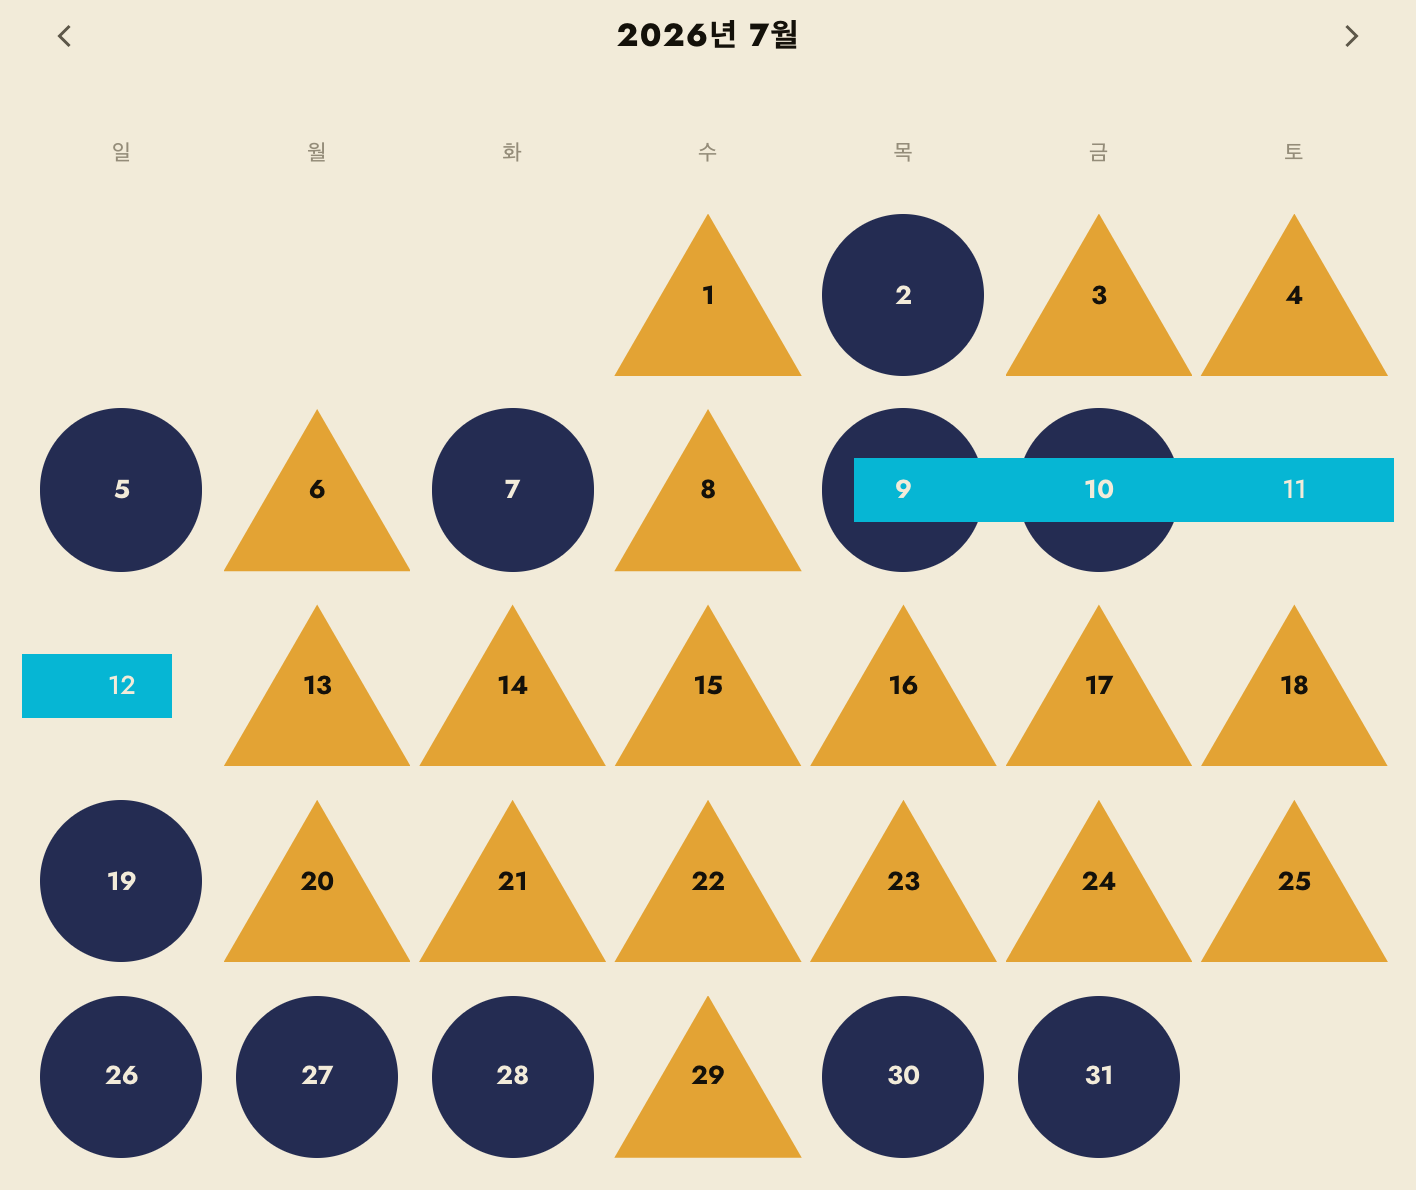
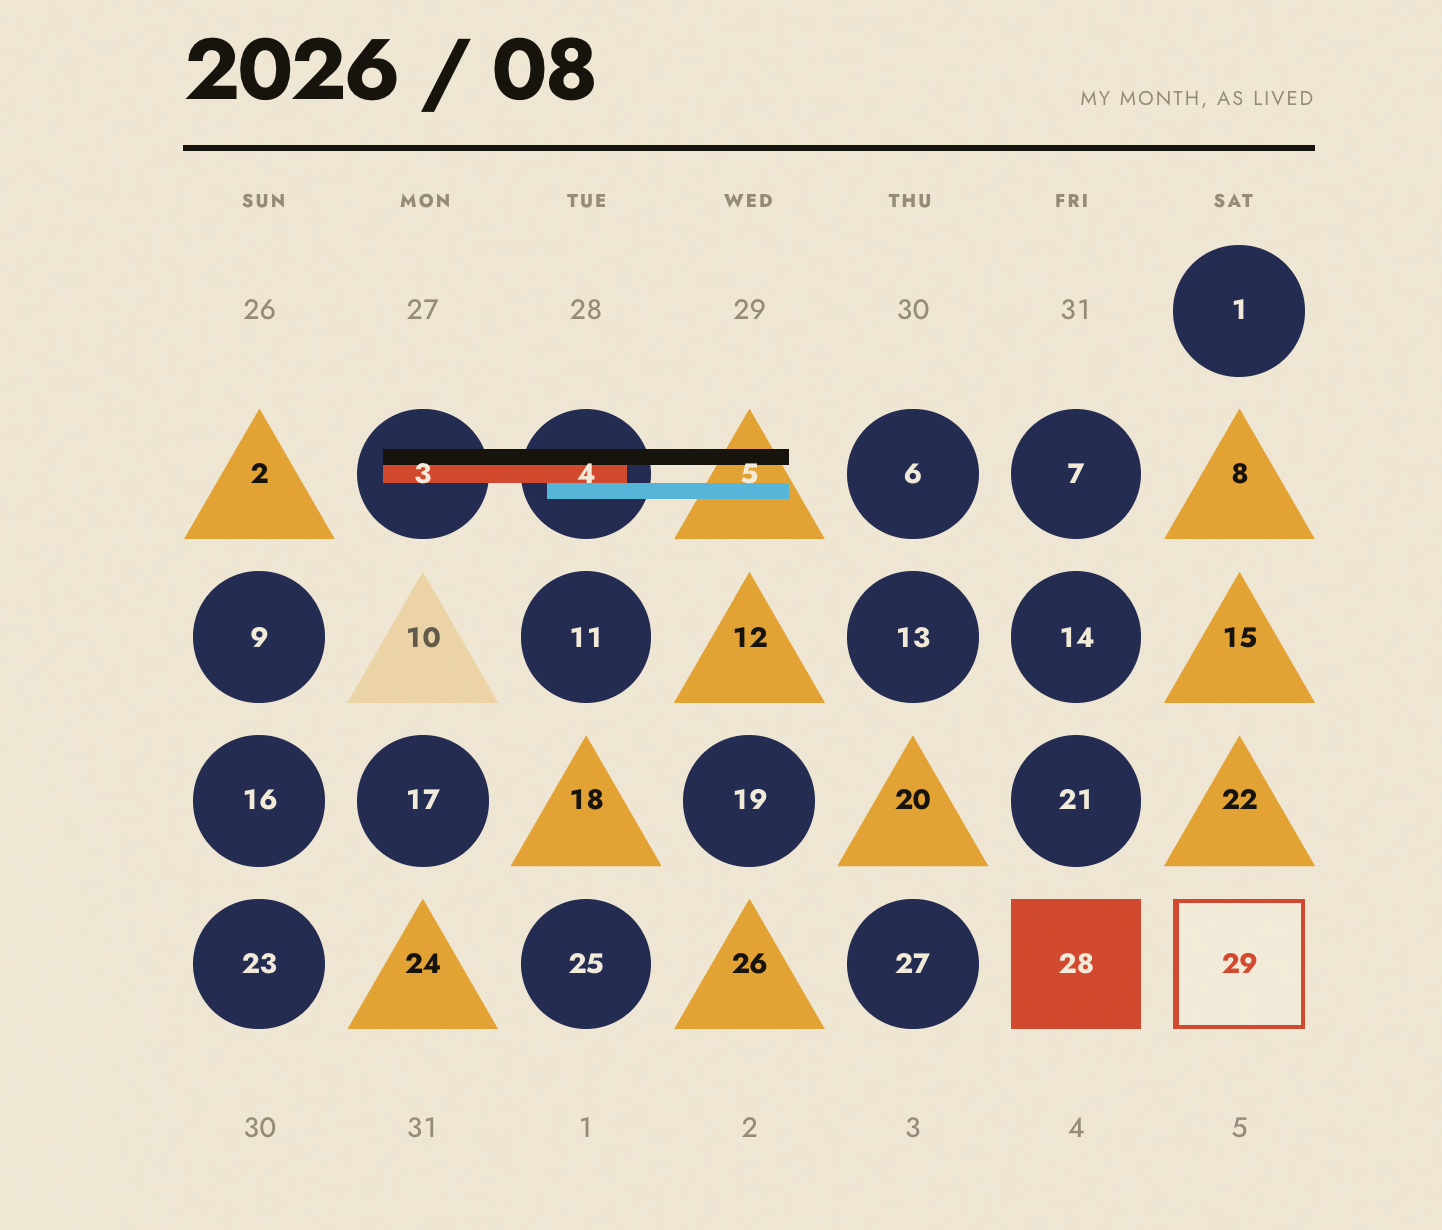
002: take the calendar plate from maennal.com's hero
The app screenshot only ever showed two of the shapes. It was a real past
month, so there was no red square for today, no future outline, no faded
triangle for a backfilled day, and the ribbon labels had to be cropped out
for privacy. The landing hero's example August carries the whole grammar at
once, ribbons included, and it is the picture the product leads with.

Cropped from the month title to the bottom of the grid at 2x. The ratio
lands at 1.172 against the old 1.19, so nothing in the layout moves — the
plate goes 351px to 346px. Caption gains "사각 오늘" now that a red square
is actually visible.

Claude-Session: https://claude.ai/code/session_01Jo7q5WEZz4nC2ByakHr4wi

diff --git a/index.html b/index.html
@@ -312,8 +312,8 @@
                 <p class="work__desc">도형과 색은 칸딘스키의 바우하우스 대응을 데이터 문법으로 빌려 왔다. 도형이 상태를, 색이 도형의 고유색을, 채움이 기록의 등급을 맡는다. 미학이 스킨이 아니라 데이터의 함수이므로 그림은 산 만큼만 얻어진다. React와 Vite로 짓고 Electron으로 macOS 앱을, 같은 코드로 웹 PWA를 낸다. 데이터는 로컬 우선으로 두되 사람이 읽을 수 있는 JSON·마크다운 파일로 iCloud Drive에 양방향 미러링된다.</p>
                 </div><!-- /.work__copy -->
                 <figure class="work__media work__media--figure">
-                  <span class="plate plate--still" style="--ratio: 1416 / 1190"><img src="assets/maennal-calendar.png" alt="맨날의 2026년 7월 달력. 완결한 날은 네이비 원, 미완의 날은 앰버 삼각으로 채워져 있다." width="1416" height="1190" loading="lazy" /></span>
-                  <figcaption class="work__plate-cap">한 달의 기록 · 원 <strong>완결</strong> · 삼각 <strong>미완</strong></figcaption>
+                  <span class="plate plate--still" style="--ratio: 1442 / 1230"><img src="assets/maennal-calendar.png?v=2" alt="맨날의 한 달 달력. 완결한 날은 네이비 원, 미완의 날은 앰버 삼각, 오늘은 붉은 사각, 아직 오지 않은 날은 속 빈 사각이고, 여러 날에 걸친 일정은 색 띠로 지난다." width="1442" height="1230" loading="lazy" /></span>
+                  <figcaption class="work__plate-cap">한 달의 기록 · 원 <strong>완결</strong> · 삼각 <strong>미완</strong> · 사각 <strong>오늘</strong></figcaption>
                 </figure>
                 </div><!-- /.work__split -->
               </div>

diff --git a/DISCUSSION_LOG.md b/DISCUSSION_LOG.md
@@ -83,3 +83,4 @@ daily-todo가 쓰는 폰트 자산을 이 페이지에도 그대로 옮겨, 두 
   - **③ About의 범인은 내가 넣은 measure 캡이었다.** 캡 799px, 사진 좌변 784px → 사진 아래 문단이 옆 문단보다 **15px밖에 안 넓어져서** 감싸 흐름이 죽고 직사각형이 됐다(예전엔 1084까지 벌어져 300px 차이). `--measure-wide: 41em`(48자)를 따로 두어 사진 옆 39자 / 아래 48자, **167px 단차**로 복원. 교훈: float 안의 텍스트는 그리드 칸과 달리 여유가 있어야 감긴다 — 측도 하나로 전부 덮으려던 게 과했다.
   - 캐시버전 v49→v50. (429px에서 `.gloss__panel` 툴팁이 화면 밖으로 나가지만 `overflow-x: clip`이 잡고 있고 직전 배포본과 동일 — 이번 변경과 무관한 기존 사안, 좁은 폰에서 툴팁 일부가 잘리는 건 별건으로 남김.)
 - **About 캡 완전 철회** — 48자(`--measure-wide`, 951px)로 줄여도 본문 칸이 1084px이라 **사진 우변에서 133px 못 미쳤다**(운영자 지적: 사진 우측 선까지 뻗길 기대). 사진은 우측 float라 그 오른쪽 변이 곧 칸의 오른쪽 변이므로, **캡이 있는 한 절대 닿지 않는다.** 토큰을 지우고 `.lede`를 무제한으로 되돌려 원래 상태 복원 — 실측 결과 마지막 문단 우변과 사진 우변의 차 **0px**, 사진 옆 39.4자 / 아래 54.4자. 사이트 유일한 measure 예외이며 DESIGN.md에 "일부러 치르는 값"으로 명시. 캐시버전 v50→v51.
+- **002 도판 교체: 앱 스크린샷 → maennal.com 히어로의 달력** — 운영자 지적("사진자료가 별로 안 예뻐, 히어로 쪽이 알록달록하고 예쁘다"). 기존은 운영자 실데이터 7월이라 **원·삼각 두 도형밖에 안 나왔다**(과거 달이라 붉은 사각이 없고, 사후 기입도 없고, 기간 일정도 라벨 때문에 잘라냈다). 랜딩 히어로의 예시 8월은 문법이 전부 등장한다: 네이비 원 · 앰버 삼각 · **감광 삼각(10일=사후 기입)** · **붉은 사각(28일=오늘)** · **속 빈 사각(29일=미래)** · 검정/빨강/파랑 **띠(여러 날 일정)**. maennal.com을 2x로 띄워 `.month-meta` 상단부터 마지막 `.cal-day` 하단까지 클립(1442×1230, 비 1.172) — **기존 도판 비(1.19)와 거의 같아 레이아웃은 그대로**(판 351→346px). 캡션에 "사각 오늘"을 더했다(이제 실제로 보이므로). 한 줄 유지 확인. 실데이터가 아니라 **랜딩의 예시 월**이라는 점은 캡션이 개인 기록이라 주장하지 않게 중립적으로 뒀다.
